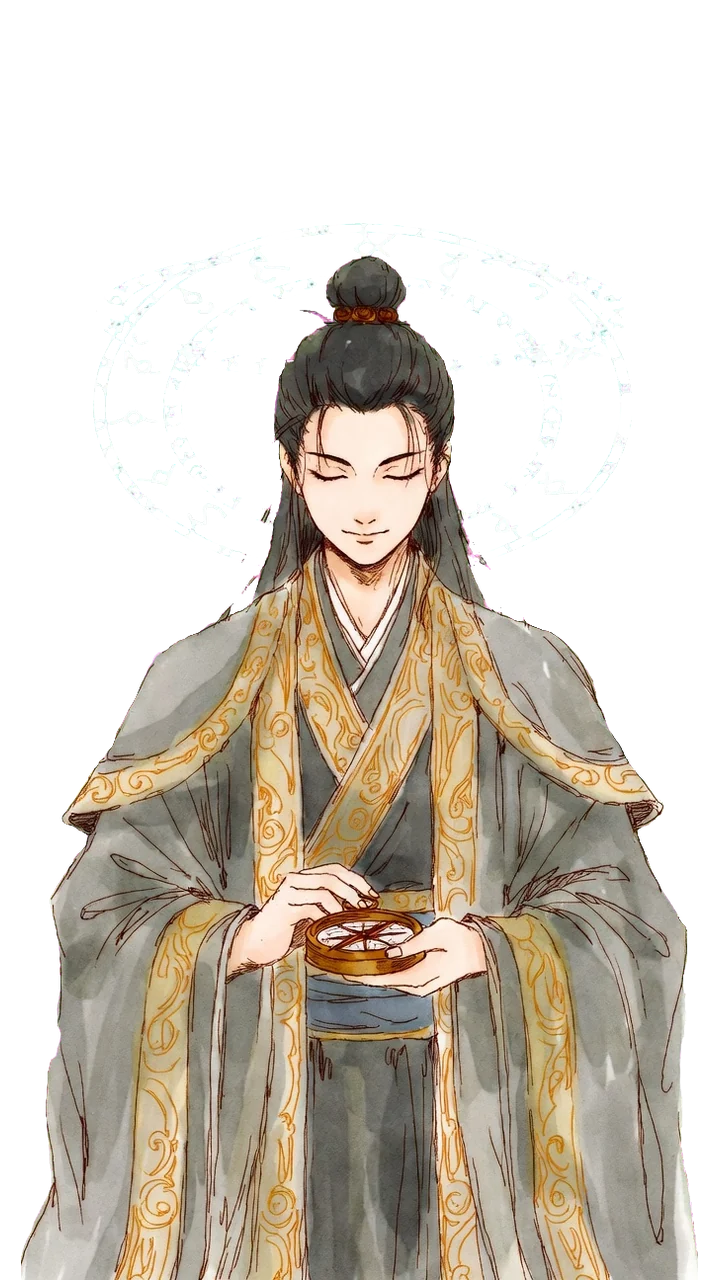
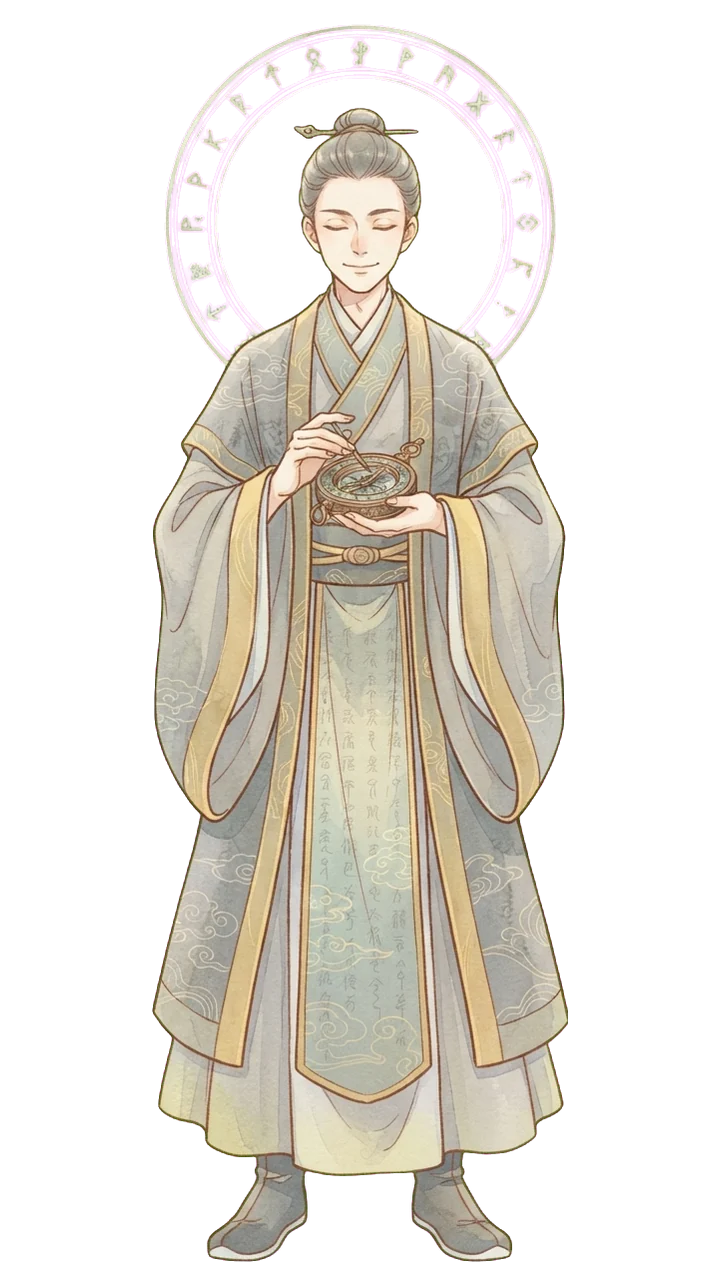
轉珠補圖：狼夜新立繪、朱寂天機子蘇紅羽蘇凝雪玄穹天尊重生立繪與頭像；狼王、千年山精、屍傀王首領圖

diff --git a/js/stage-cfg.js b/js/stage-cfg.js
@@ -48,16 +48,16 @@ const PZ_MONS = {
     heavy: { every: 3, mult: 1.8, name: '寒魄' } },
   jing_elite: { name: '山精首領', el: 'earth', hp: 5200, atk: 330, def: 50, cd: 3, img: 'assets/mon/shanjing.webp', boss: true,
     heavy: { every: 2, mult: 1.8, name: '落石' } },
-  kui_elite: { name: '屍傀王', el: 'metal', hp: 6200, atk: 420, def: 60, cd: 3, img: 'assets/mon/shikui.webp', boss: true,
+  kui_elite: { name: '屍傀王', el: 'metal', hp: 6200, atk: 420, def: 60, cd: 3, img: 'assets/mon/kui_king.webp', boss: true,
     heavy: { every: 3, mult: 2.2, name: '屍毒爪' }, phases: [{ name: '' }, { at: 0.5, name: '屍化', dr: 0.2, banner: ['屍氣護體', '受傷減兩成'] }] },
   mo_elite: { name: '魔修護法', el: 'fire', hp: 6500, atk: 480, def: 40, cd: 2, img: 'assets/mon/moxiu.webp', boss: true,
     heavy: { every: 3, mult: 2, name: '血焰' } },
   mo_boss: { name: '魔修頭目', el: 'fire',  hp: 9000, atk: 650, def: 60, cd: 3, img: 'assets/mon/moxiu_boss.webp', boss: true,
     heavy: { every: 3, mult: 2.4, name: '焚心掌' },
     phases: [{ name: '' }, { at: 0.4, name: '狂怒', atk: 1.3, cd: 2, banner: ['魔修狂怒', '出手加快'] }] },
-  lang_king: { name: '狼王', el: 'wood', hp: 7000, atk: 520, def: 40, cd: 2, img: 'assets/mon/yaoshou.webp', boss: true,
+  lang_king: { name: '狼王', el: 'wood', hp: 7000, atk: 520, def: 40, cd: 2, img: 'assets/mon/lang_king.webp', boss: true,
     heavy: { every: 3, mult: 2.2, name: '裂風嘯' } },
-  jing_old: { name: '千年山精', el: 'earth', hp: 11000, atk: 560, def: 80, cd: 3, img: 'assets/mon/shanjing.webp', boss: true,
+  jing_old: { name: '千年山精', el: 'earth', hp: 11000, atk: 560, def: 80, cd: 3, img: 'assets/mon/jing_old.webp', boss: true,
     phases: [{ name: '' }, { at: 0.5, name: '石膚', dr: 0.3, banner: ['山石護體', '受傷減三成'] }] },
   // 第一章首領：沿用血甲妖將三相（減傷、暴怒吸血），每第 3 次出手為「血刃斬」
   xuejia: { name: '血甲妖將・厲蒼', el: 'fire', hp: 28000, atk: 1500, def: 60, cd: 3, img: 'assets/mon/xuejia.webp', boss: true,

diff --git a/js/roster-cfg.js b/js/roster-cfg.js
@@ -100,7 +100,7 @@ const PZ_CHARS = [
   { id: 'suningxue', name: '凌霜仙子·蘇凝雪',  el: 'water', role: 'ctrl', fac: 'sect',  rare: 'SSR', atk: 760, hp: 1550, rcv: 160, lead: 'sn_lead', sk: 'sn_sk', face: 'assets/char/suningxue_face.webp', art: 'assets/char/suningxue.webp' },
   // SR
   { id: 'luqingchuan', name: '七彩劍尊·陸清川', el: 'metal', role: 'ctrl', fac: 'sect',  rare: 'SR', atk: 660, hp: 1200, rcv: 90, lead: 'lq_lead', sk: 'lq_sk', face: 'assets/char/luqingchuan_face.webp', art: 'assets/char/luqingchuan.webp' },
-  { id: 'langye',      name: '噬魂·狼夜',      el: 'earth', role: 'dps',  fac: 'demon', rare: 'SR', atk: 760, hp: 1150, rcv: 50, lead: 'ly_lead', sk: 'ly_sk' },
+  { id: 'langye',      name: '噬魂·狼夜',      el: 'earth', role: 'dps',  fac: 'demon', rare: 'SR', atk: 760, hp: 1150, rcv: 50, lead: 'ly_lead', sk: 'ly_sk', face: 'assets/char/langye_face.webp', art: 'assets/char/langye.webp' },
   { id: 'suhongyu',    name: '赤蝶·蘇紅羽',    el: 'wood',  role: 'dps',  fac: 'rogue', rare: 'SR', atk: 720, hp: 1050, rcv: 80, lead: 'hy_lead', sk: 'hy_sk', face: 'assets/char/suhongyu_face.webp', art: 'assets/char/suhongyu.webp' },
   { id: 'tianjizi',    name: '天機子',         el: 'metal', role: 'sup',  fac: 'rogue', rare: 'SR', atk: 560, hp: 1150, rcv: 130, lead: 'tj_lead', sk: 'tj_sk', face: 'assets/char/tianjizi_face.webp', art: 'assets/char/tianjizi.webp' },
   // R

diff --git a/js/asset-list.js b/js/asset-list.js
@@ -181,6 +181,9 @@ const ASSET_LIST = [
   'assets/loot/art_t3.webp',
   'assets/loot/art_t4.webp',
   'assets/loot/scroll_t0.webp',
+  'assets/mon/lang_king.webp',
+  'assets/mon/jing_old.webp',
+  'assets/mon/kui_king.webp',
   'assets/mon/moxiu.webp',
   'assets/mon/moxiu_boss.webp',
   'assets/mon/shanjing.webp',
@@ -204,6 +207,8 @@ const ASSET_LIST = [
   'assets/char/suhongyu_face.webp',
   'assets/char/tianjizi.webp',
   'assets/char/tianjizi_face.webp',
+  'assets/char/langye.webp',
+  'assets/char/langye_face.webp',
   'assets/char/linzhao.webp',
   'assets/char/linzhao_face.webp',
   'assets/char/bairuoshui.webp',
